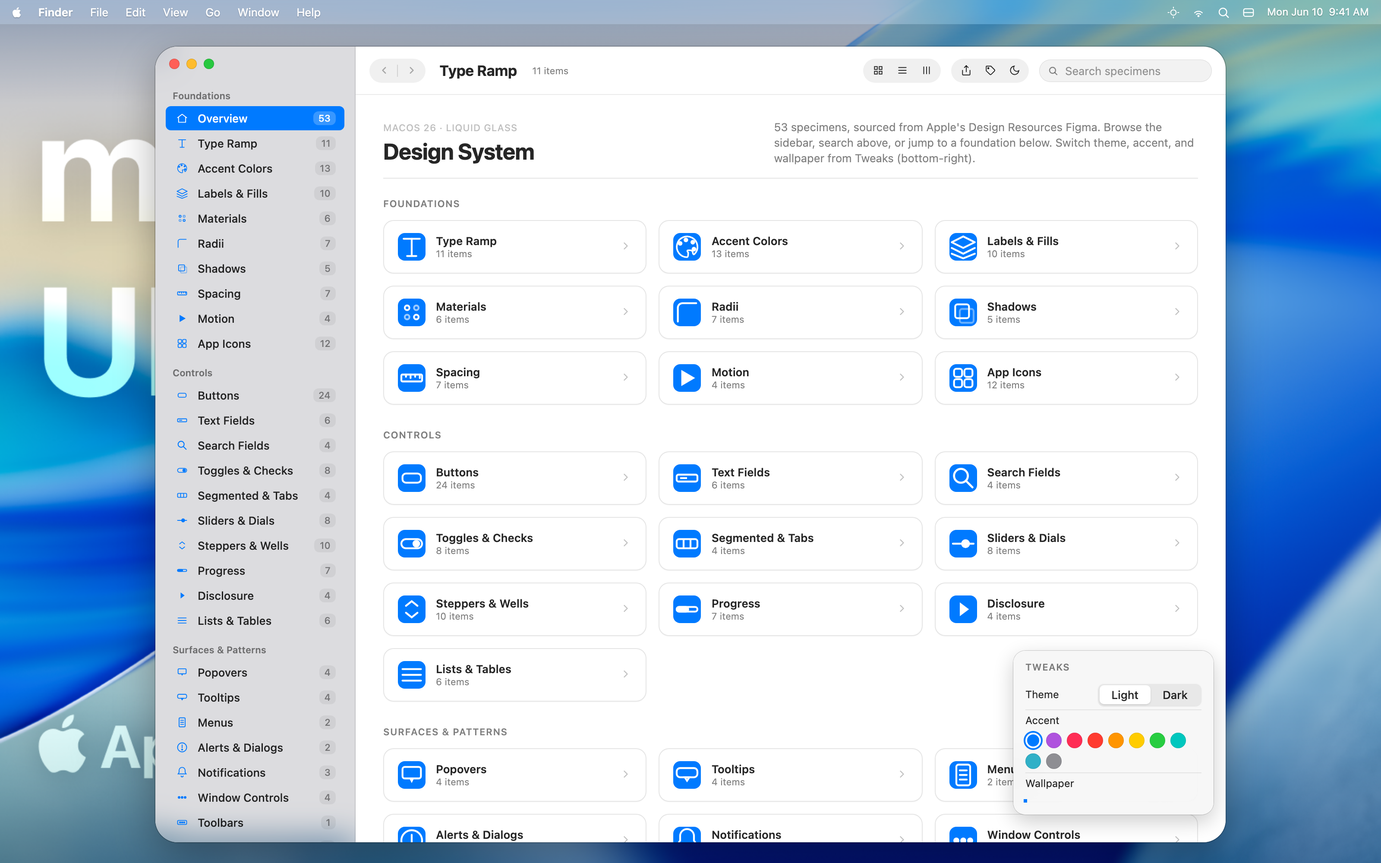
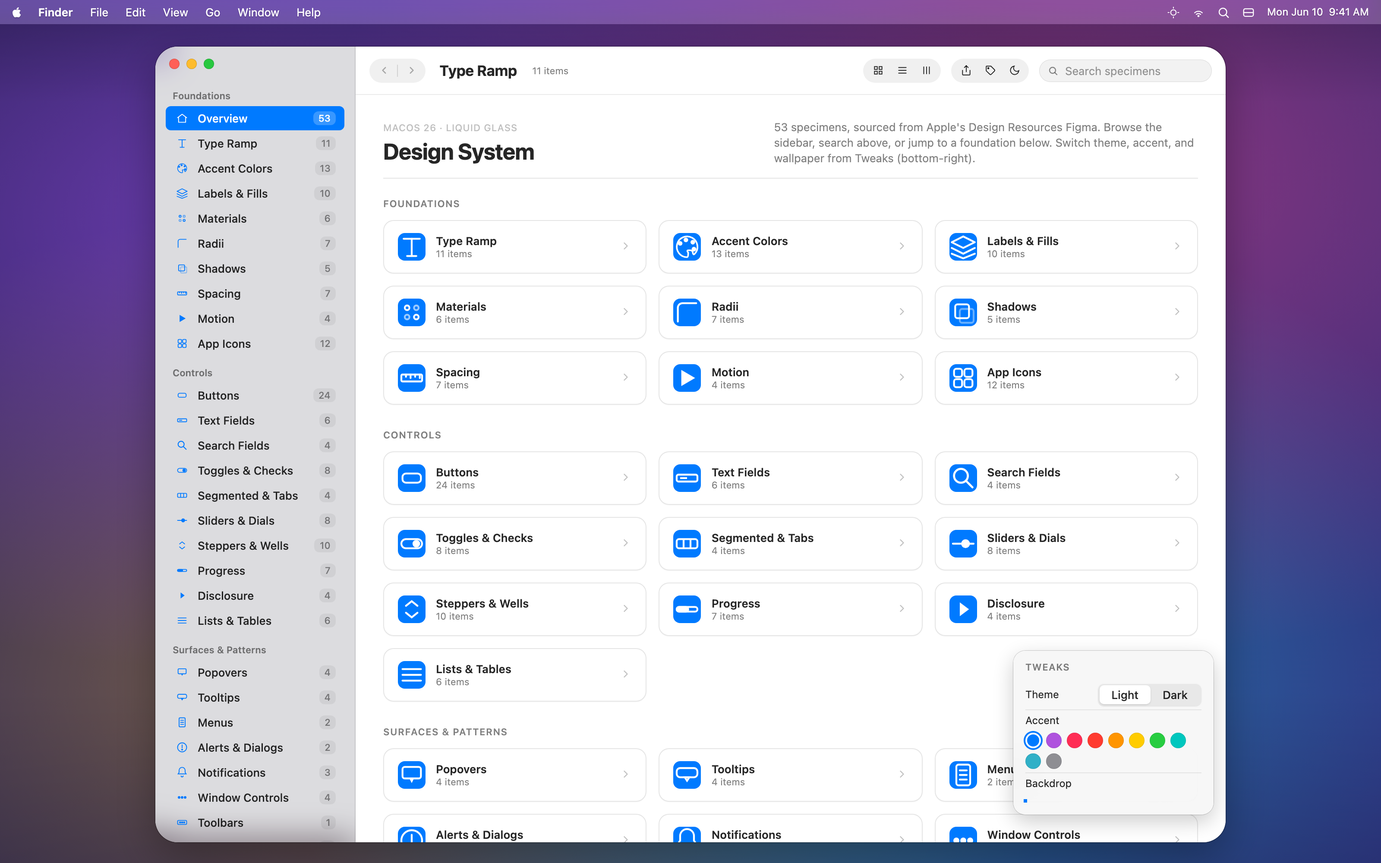
feat: v0.1.2 — limpieza legal, bundle 100% OSS-redistribuible
Eliminados los 9 PNGs propiedad de Apple (4 wallpapers + cover + 4 thumbs)
y todas las refs en specimens, showcase, docs y LICENSE. Reemplazados por
un mesh gradient procedural (--demo-backdrop) CC0 + 4 gradientes
alternativos en preview/wallpapers.html.

- bundle/assets/ eliminado entero (9 PNGs Apple IP)
- colors_and_type.css: nuevo --demo-backdrop (mesh gradient procedural)
- 4 specimens migrados a var(--demo-backdrop): materials, titlebar-window,
  inspector-sidebar, monobar-window
- preview/wallpapers.html: reescrito con 4 gradientes procedurales
- showcase.html: wallpaper picker → gradient picker; JS handler actualizado
- LICENSE: removida atribución a wallpapers Apple (ya no aplica)
- bundle/SKILL.md + bundle/README.md: removidas refs a wallpapers oficiales
- README raíz: agregado link al demo interactivo en GitHub Pages
- bundle/macOS 26 Showcase.html → bundle/showcase.html (URL limpia)
- docs/ screenshots viejos eliminados (mostraban wallpapers Apple);
  showcase-dark.png re-renderizado con el nuevo bundle
- bin/install.mjs: success message actualizado (sin mención a wallpapers Apple)
- package.json: bump 0.1.1 → 0.1.2
- GitHub Pages habilitado: showcase accesible vía
  https://juanlara-aidev.github.io/macos-26-design/bundle/showcase.html

Bundle final: 59 archivos (era 68). 0 dependencias binarias de terceros.

Changed region(s): [[0.0, 0.0, 1.0, 1.0], [0.75, 0.899, 0.7812, 0.93]]

diff --git a/bundle/preview/wallpapers.html b/bundle/preview/wallpapers.html
@@ -1,5 +1,5 @@
 <!doctype html>
-<html lang="en"><head><meta charset="utf-8"><title>Wallpapers</title>
+<html lang="en"><head><meta charset="utf-8"><title>Backdrops</title>
 <link rel="stylesheet" href="../colors_and_type.css">
 <link rel="stylesheet" href="_card.css"></head>
 <body>
@@ -16,6 +16,7 @@
     border-radius: 12px;
     background: rgba(245,245,245,0.55);
     backdrop-filter: var(--glass-blur);
+    -webkit-backdrop-filter: var(--glass-blur);
     box-shadow: var(--shadow-glass);
     display: flex; align-items: center; justify-content: center;
     font: 600 12px/16px var(--font-system); color: rgba(0,0,0,0.78);
@@ -26,48 +27,63 @@
   }
   .wp .name { font: 600 13px/16px var(--font-system); color: rgba(0,0,0,0.88); }
   .wp .meta { font: 400 11px/16px var(--font-mono); color: var(--label-secondary); }
+  .note {
+    background: rgba(251, 191, 36, 0.10);
+    border: 1px solid rgba(251, 191, 36, 0.30);
+    color: rgba(0,0,0,0.78);
+    padding: 12px 16px; border-radius: 10px; max-width: 820px;
+    font: 400 13px/20px var(--font-system); margin: 0 0 18px;
+  }
+  .note strong { color: rgba(0,0,0,0.88); }
 </style>
 
-<h2>System wallpapers · 1920 × 1080</h2>
+<h2>Demo backdrops · procedurales (sin IP)</h2>
 <p style="font:400 13px/18px var(--font-system);color:var(--label-secondary);max-width:760px;margin:-6px 0 14px;">
-  Each composition is balanced warm-to-cool so floating Liquid Glass surfaces always have something to pick up.
-  The glass overlay below each tile previews how a toolbar reads against the wallpaper at 0.55 alpha + 20 px blur.
+  Cuatro mesh gradients procedurales (puro CSS) que sirven como backdrop para previsualizar superficies Liquid Glass.
+  El overlay de cristal abajo de cada tile muestra cómo se lee una toolbar a 0.55 alpha + 20 px blur sobre cada backdrop.
 </p>
+
+<div class="note">
+  <strong>Nota:</strong> los wallpapers oficiales de macOS son propiedad de Apple y no se redistribuyen con este bundle.
+  Estos cuatro backdrops procedurales son CC0 — úsalos para mocks o reemplázalos por tu propio asset en producción.
+  Para wallpapers fotográficos reales, descárgalos de fuentes con licencia compatible (Unsplash, Pexels, NASA) o usa los oficiales de Apple
+  bajo los términos que apliquen a tu proyecto.
+</div>
 
 <div class="grid">
   <div class="wp">
-    <div class="img" style="background-image:url('../assets/wallpaper-aurora.png');">
-      <div class="preview-glass">Aurora · sidebar over wallpaper</div>
+    <div class="img" style="background: radial-gradient(at 30% 30%, rgba(110,231,183,0.7), transparent 55%), radial-gradient(at 75% 70%, rgba(96,165,250,0.65), transparent 55%), linear-gradient(135deg,#0c4a6e,#1e3a8a);">
+      <div class="preview-glass">Aurora · sidebar over backdrop</div>
     </div>
-    <div class="label"><span class="name">Aurora</span><span class="meta">deep navy → coral</span></div>
+    <div class="label"><span class="name">Aurora</span><span class="meta">teal → indigo</span></div>
   </div>
   <div class="wp">
-    <div class="img" style="background-image:url('../assets/wallpaper-sequoia.png');">
-      <div class="preview-glass">Sequoia · warm sunset</div>
+    <div class="img" style="background: radial-gradient(at 25% 25%, rgba(251,113,133,0.7), transparent 55%), radial-gradient(at 80% 75%, rgba(251,191,36,0.7), transparent 55%), linear-gradient(135deg,#7c2d12,#9a3412);">
+      <div class="preview-glass">Dawn · warm sunset</div>
     </div>
-    <div class="label"><span class="name">Sequoia</span><span class="meta">amber → mulberry</span></div>
+    <div class="label"><span class="name">Dawn</span><span class="meta">rose → amber</span></div>
   </div>
   <div class="wp">
-    <div class="img" style="background-image:url('../assets/wallpaper-ventura.png');">
-      <div class="preview-glass">Ventura · cool dawn</div>
+    <div class="img" style="background: radial-gradient(at 20% 50%, rgba(34,211,238,0.7), transparent 55%), radial-gradient(at 80% 50%, rgba(59,130,246,0.65), transparent 55%), linear-gradient(135deg,#082f49,#164e63);">
+      <div class="preview-glass">Ocean · cool dawn</div>
     </div>
-    <div class="label"><span class="name">Ventura</span><span class="meta">indigo → blush</span></div>
+    <div class="label"><span class="name">Ocean</span><span class="meta">cyan → blue</span></div>
   </div>
   <div class="wp">
-    <div class="img" style="background-image:url('../assets/wallpaper-monterey.png');">
-      <div class="preview-glass">Monterey · violet horizon</div>
+    <div class="img" style="background: radial-gradient(at 30% 70%, rgba(34,197,94,0.65), transparent 55%), radial-gradient(at 70% 30%, rgba(132,204,22,0.55), transparent 55%), linear-gradient(135deg,#14532d,#365314);">
+      <div class="preview-glass">Forest · green horizon</div>
     </div>
-    <div class="label"><span class="name">Monterey</span><span class="meta">rose → midnight</span></div>
+    <div class="label"><span class="name">Forest</span><span class="meta">green → lime</span></div>
   </div>
 </div>
 
-<h2 style="margin-top:28px">Usage rules</h2>
+<h2 style="margin-top:28px">Reglas de uso</h2>
 <div style="background:#fff;padding:16px 18px;border-radius:10px;box-shadow:0 0 0 0.5px rgba(0,0,0,0.10), 0 4px 14px rgba(0,0,0,0.06);max-width:820px;">
   <ul style="margin:0;padding-left:18px;font:400 13px/22px var(--font-system);color:rgba(0,0,0,0.78);">
-    <li>Use wallpapers as the desktop / lockscreen background — never as a control fill.</li>
-    <li>Don't tile, crop tightly, or apply additional gradients; the compositions are tuned end-to-end.</li>
-    <li>When pulling colors for chrome, sample from the wallpaper's <em>opposite</em> tonal end so Liquid Glass picks up contrast.</li>
-    <li>For light mode prefer <strong>Sequoia</strong> / <strong>Ventura</strong>; for dark prefer <strong>Aurora</strong> / <strong>Monterey</strong>.</li>
+    <li>El backdrop va en desktop / lockscreen — nunca como fill de un control.</li>
+    <li>No tileees, no recortes apretado, no apliques gradientes encima — las composiciones ya están balanceadas.</li>
+    <li>Cuando saques colores para el chrome, muestrea del extremo tonal <em>opuesto</em> del backdrop para que el Liquid Glass tenga contraste.</li>
+    <li>Para light mode prefiere <strong>Dawn</strong> / <strong>Ocean</strong>; para dark prefiere <strong>Aurora</strong> / <strong>Forest</strong>.</li>
   </ul>
 </div>
 </body></html>

diff --git a/bundle/showcase.html b/bundle/showcase.html
@@ -834,7 +834,7 @@
   @keyframes fadeIn { from { opacity: 0; transform: translateY(4px); } to { opacity: 1; transform: none; } }
 </style>
 </head>
-<body data-theme="light" style="--wallpaper: url('assets/cover-bg.png')">
+<body data-theme="light" style="--wallpaper: var(--demo-backdrop)">
 
 <!-- Stage -->
 <div class="stage"></div>
@@ -2083,13 +2083,13 @@
       </div>
     </div>
     <div class="tw-row" style="flex-direction:column;align-items:flex-start;gap:6px;">
-      <span style="width:100%">Wallpaper</span>
+      <span style="width:100%">Backdrop</span>
       <div class="wp-list" id="tweakWallpaper">
-        <div class="wp-thumb active" data-wp="assets/cover-bg.png" style="background-image: url('assets/cover-bg.png');"></div>
-        <div class="wp-thumb" data-wp="assets/wallpaper-aurora.png" style="background-image: url('assets/wallpaper-aurora.png');"></div>
-        <div class="wp-thumb" data-wp="assets/wallpaper-sequoia.png" style="background-image: url('assets/wallpaper-sequoia.png');"></div>
-        <div class="wp-thumb" data-wp="assets/wallpaper-ventura.png" style="background-image: url('assets/wallpaper-ventura.png');"></div>
-        <div class="wp-thumb" data-wp="assets/wallpaper-monterey.png" style="background-image: url('assets/wallpaper-monterey.png');"></div>
+        <div class="wp-thumb active" data-wp="default" style="background: radial-gradient(at 20% 25%, rgba(168,85,247,0.7), transparent 55%), radial-gradient(at 78% 20%, rgba(236,72,153,0.65), transparent 55%), radial-gradient(at 65% 78%, rgba(34,211,238,0.65), transparent 55%), radial-gradient(at 25% 80%, rgba(251,191,36,0.55), transparent 55%), linear-gradient(135deg,#1e1b4b,#312e81);"></div>
+        <div class="wp-thumb" data-wp="aurora" style="background: radial-gradient(at 30% 30%, rgba(110,231,183,0.7), transparent 55%), radial-gradient(at 75% 70%, rgba(96,165,250,0.65), transparent 55%), linear-gradient(135deg,#0c4a6e,#1e3a8a);"></div>
+        <div class="wp-thumb" data-wp="dawn" style="background: radial-gradient(at 25% 25%, rgba(251,113,133,0.7), transparent 55%), radial-gradient(at 80% 75%, rgba(251,191,36,0.7), transparent 55%), linear-gradient(135deg,#7c2d12,#9a3412);"></div>
+        <div class="wp-thumb" data-wp="ocean" style="background: radial-gradient(at 20% 50%, rgba(34,211,238,0.7), transparent 55%), radial-gradient(at 80% 50%, rgba(59,130,246,0.65), transparent 55%), linear-gradient(135deg,#082f49,#164e63);"></div>
+        <div class="wp-thumb" data-wp="forest" style="background: radial-gradient(at 30% 70%, rgba(34,197,94,0.65), transparent 55%), radial-gradient(at 70% 30%, rgba(132,204,22,0.55), transparent 55%), linear-gradient(135deg,#14532d,#365314);"></div>
       </div>
     </div>
   </aside>
@@ -2275,9 +2275,17 @@
   }
   document.querySelectorAll(".sw-dot").forEach(dot => dot.addEventListener("click", () => setAccent(dot.dataset.color)));
 
-  function setWallpaper(url) {
-    document.body.style.setProperty("--wallpaper", `url('${url}')`);
-    document.querySelectorAll(".wp-thumb").forEach(t => t.classList.toggle("active", t.dataset.wp === url));
+  const wallpaperGradients = {
+    default: "radial-gradient(at 20% 25%, rgba(168,85,247,0.7), transparent 55%), radial-gradient(at 78% 20%, rgba(236,72,153,0.65), transparent 55%), radial-gradient(at 65% 78%, rgba(34,211,238,0.65), transparent 55%), radial-gradient(at 25% 80%, rgba(251,191,36,0.55), transparent 55%), linear-gradient(135deg,#1e1b4b,#312e81)",
+    aurora: "radial-gradient(at 30% 30%, rgba(110,231,183,0.7), transparent 55%), radial-gradient(at 75% 70%, rgba(96,165,250,0.65), transparent 55%), linear-gradient(135deg,#0c4a6e,#1e3a8a)",
+    dawn: "radial-gradient(at 25% 25%, rgba(251,113,133,0.7), transparent 55%), radial-gradient(at 80% 75%, rgba(251,191,36,0.7), transparent 55%), linear-gradient(135deg,#7c2d12,#9a3412)",
+    ocean: "radial-gradient(at 20% 50%, rgba(34,211,238,0.7), transparent 55%), radial-gradient(at 80% 50%, rgba(59,130,246,0.65), transparent 55%), linear-gradient(135deg,#082f49,#164e63)",
+    forest: "radial-gradient(at 30% 70%, rgba(34,197,94,0.65), transparent 55%), radial-gradient(at 70% 30%, rgba(132,204,22,0.55), transparent 55%), linear-gradient(135deg,#14532d,#365314)",
+  };
+  function setWallpaper(name) {
+    const grad = wallpaperGradients[name] || wallpaperGradients.default;
+    document.body.style.setProperty("--wallpaper", grad);
+    document.querySelectorAll(".wp-thumb").forEach(t => t.classList.toggle("active", t.dataset.wp === name));
   }
   document.querySelectorAll(".wp-thumb").forEach(t => t.addEventListener("click", () => setWallpaper(t.dataset.wp)));
 

diff --git a/bundle/colors_and_type.css b/bundle/colors_and_type.css
@@ -104,6 +104,16 @@
   --dur-fast: 120ms;
   --dur: 220ms;
   --dur-slow: 320ms;
+
+  /* Demo backdrop — procedural mesh gradient (no Apple IP).
+     Use this as a stand-in for previewing Liquid Glass surfaces,
+     or replace with your own wallpaper in the consumer app. */
+  --demo-backdrop:
+    radial-gradient(at 20% 25%, rgba(168, 85, 247, 0.55), transparent 50%),
+    radial-gradient(at 78% 20%, rgba(236, 72, 153, 0.50), transparent 50%),
+    radial-gradient(at 65% 78%, rgba(34, 211, 238, 0.50), transparent 50%),
+    radial-gradient(at 25% 80%, rgba(251, 191, 36, 0.40), transparent 50%),
+    linear-gradient(135deg, #1e1b4b 0%, #312e81 100%);
 }
 
 /* ─── Dark mode overrides ─── */

diff --git a/bundle/preview/titlebar-window.html b/bundle/preview/titlebar-window.html
@@ -1,7 +1,7 @@
 <!doctype html>
 <html lang="en"><head><meta charset="utf-8"><title>Titlebar-Only Window</title>
 <link rel="stylesheet" href="../colors_and_type.css"></head>
-<body style="margin:0;padding:50px;background:url('../assets/wallpaper-ventura.png') center/cover fixed,#222;min-height:520px;font-family:var(--font-system);display:flex;gap:32px;flex-wrap:wrap;align-items:flex-start;">
+<body style="margin:0;padding:50px;background:var(--demo-backdrop) center/cover fixed,#222;min-height:520px;font-family:var(--font-system);display:flex;gap:32px;flex-wrap:wrap;align-items:flex-start;">
 <style>
   .window {
     width: 420px; border-radius: 16px; overflow: hidden;

diff --git a/bundle/preview/materials.html b/bundle/preview/materials.html
@@ -5,7 +5,7 @@
 <title>Liquid Glass Materials</title>
 <link rel="stylesheet" href="../colors_and_type.css">
 <style>
-  body { margin: 0; padding: 18px 20px; background: url("../assets/cover-bg.png") center / cover no-repeat; font-family: var(--font-system); min-height: 220px; }
+  body { margin: 0; padding: 18px 20px; background: var(--demo-backdrop); background-size: cover; background-position: center; font-family: var(--font-system); min-height: 220px; }
   .row { display: grid; grid-template-columns: repeat(3, 1fr); gap: 14px; }
   .m {
     height: 110px;

diff --git a/bundle/preview/monobar-window.html b/bundle/preview/monobar-window.html
@@ -1,7 +1,7 @@
 <!doctype html>
 <html lang="en"><head><meta charset="utf-8"><title>Monobar Window</title>
 <link rel="stylesheet" href="../colors_and_type.css"></head>
-<body style="margin:0;padding:40px;background:url('../assets/wallpaper-aurora.png') center/cover fixed,#222;min-height:560px;font-family:var(--font-system);">
+<body style="margin:0;padding:40px;background:var(--demo-backdrop) center/cover fixed,#222;min-height:560px;font-family:var(--font-system);">
 <style>
   .window {
     width: 940px; border-radius: 22px; overflow: hidden;

diff --git a/bundle/preview/inspector-sidebar.html b/bundle/preview/inspector-sidebar.html
@@ -1,7 +1,7 @@
 <!doctype html>
 <html lang="en"><head><meta charset="utf-8"><title>Inspector Sidebar</title>
 <link rel="stylesheet" href="../colors_and_type.css"></head>
-<body style="margin:0;padding:24px;background:url('../assets/wallpaper-sequoia.png') center/cover fixed,#222;min-height:560px;font-family:var(--font-system);">
+<body style="margin:0;padding:24px;background:var(--demo-backdrop) center/cover fixed,#222;min-height:560px;font-family:var(--font-system);">
 <style>
   .window {
     width: 1040px; height: 600px;

diff --git a/bundle/SKILL.md b/bundle/SKILL.md
@@ -61,8 +61,7 @@ Tras instalar, Claude Code descubre la skill por el frontmatter al iniciar la se
 | Tokens canónicos | `colors_and_type.css` | Variables CSS verificadas contra Figma: tipografía, jerarquía de labels por opacidad, system accent colors, materiales Liquid Glass (thin/regular/thick × light/dark), radii, shadows, easing, durations. **Importar este archivo es el primer paso de cualquier integración.** |
 | Doc comprehensivo | `README.md` | 414 líneas. Background, foundations, voz, iconografía, caveats. Lectura recomendada para empaparse del lenguaje visual antes de implementar. TOC al inicio del archivo. |
 | Specimens (53) | `preview/*.html` | Una recipe por foundation/control/superficie. Cada specimen es self-contained y se renderiza directo en el navegador. **Índice categorizado abajo.** |
-| Assets | `assets/` | `cover-bg.png` + 4 wallpapers oficiales (Aurora, Sequoia, Ventura, Monterey). Solo para mocks/preview — no redistribuibles en producción. |
-| Showcase | `macOS 26 Showcase.html` | Vista catálogo con todos los specimens montados en una sola página. Útil para inspección rápida. |
+| Showcase | `showcase.html` | Vista catálogo con todos los specimens montados en una sola página. Útil para inspección rápida. |
 
 ### Specimens categorizados — lectura on-demand
 
@@ -137,13 +136,14 @@ macOS 26 usa **SF Symbols** (~6,900 glyphs, alineados con SF Pro x-height, 9 wei
 
 ---
 
-## Wallpapers y composición
+## Backdrops y composición
 
-`assets/` contiene `cover-bg.png` + 4 wallpapers Apple oficiales (Aurora, Sequoia, Ventura, Monterey). Uso recomendado:
+Este bundle **no incluye los wallpapers oficiales de Apple** (son propiedad de Apple y no se redistribuyen). En su lugar incluye:
 
-- **Mocks/preview**: ponerlos detrás de cualquier ventana mockup para testear Liquid Glass surfaces contra backdrops varied. `preview/wallpapers.html` muestra cada uno con glass overlay.
-- **NO redistribuir en producción** — son assets propiedad de Apple, usables para diseño pero no para shipping en una app distribuida.
-- Para producción, usar wallpaper propio que cumpla: photographic (no flat color), warm-cool balanced (no single-hue), abstract gradient o landscape. La granularidad sutil (subtle film grain) es deseable.
+- **Variable `--demo-backdrop`** en `colors_and_type.css` — un mesh gradient procedural (puro CSS) que sirve como backdrop genérico para previsualizar superficies Liquid Glass. Cero dependencias de imagen, cero issues de licencia.
+- **`preview/wallpapers.html`** muestra 4 mesh gradients alternativos (Aurora, Dawn, Ocean, Forest) con overlay de cristal para ver cómo se leen.
+
+Para producción, el consumidor debe proveer su propio wallpaper que cumpla las reglas de Imagery del `README.md` § Visual foundations: photographic (no flat color), warm-cool balanced (no single-hue), abstract gradient o landscape. Si se necesitan los wallpapers oficiales de macOS, descargarlos directo de Apple y usar bajo los términos que apliquen.
 
 ---
 
@@ -188,7 +188,7 @@ Cuando se invoca con "implementa X componente de macOS 26":
 ## Caveats documentados
 
 - **SF Pro y SF Symbols no se redistribuyen**. El bundle usa fallback chain `-apple-system` para tipo y Lucide CDN para iconografía. Para mocks pixel-perfect en hardware no-Apple, el usuario debe descargar SF Pro desde <https://developer.apple.com/fonts/> y dropear los `.otf`/`.woff2` en una carpeta `fonts/` del target, con `@font-face` matching en `colors_and_type.css`.
-- **Wallpapers de `assets/`**: solo para mocks/preview. Producción requiere asset propio.
+- **Wallpapers Apple no se incluyen**. El bundle usa la variable CSS `--demo-backdrop` (mesh gradient procedural, CC0). Para wallpapers fotográficos reales en producción, el consumidor provee su propio asset.
 - **El Figma pseudocode tenía artefactos de resolución** (algunos accent slots mostraban red repetido). Donde el pseudocode se contradecía, este bundle cross-checkeó contra screenshots Figma renderizados + valores publicados de Apple System Colors y eligió los valores publicados. Caveat documentado en `README.md` sección "Caveats".
 - **macOS 12 vs macOS 26**: este bundle es **macOS 26 específicamente**. macOS 12 (Monterey) tiene radius más cuadrado (10pt window), glass menos pronunciado, paleta similar pero materials con menos blur. No mezclar specimens entre eras.
 

diff --git a/CHANGELOG.md b/CHANGELOG.md
@@ -2,6 +2,31 @@
 
 Formato basado en [Keep a Changelog](https://keepachangelog.com/es-ES/1.1.0/). Versionado [SemVer](https://semver.org/lang/es/).
 
+## [0.1.2] — 2026-05-12
+
+### Removidos (limpieza legal para OSS-friendly)
+
+- **`bundle/assets/` eliminado entero** (9 PNGs propiedad de Apple):
+  - `cover-bg.png`
+  - `wallpaper-aurora.png`, `wallpaper-sequoia.png`, `wallpaper-ventura.png`, `wallpaper-monterey.png`
+  - 4 thumbnails de los wallpapers anteriores
+- Removida la atribución a wallpapers Apple en LICENSE (ya no aplica).
+
+### Cambios
+
+- Nueva variable CSS `--demo-backdrop` en `colors_and_type.css` — mesh gradient procedural (CC0) que reemplaza a los wallpapers como backdrop para previsualizar Liquid Glass.
+- 4 specimens actualizados para usar `var(--demo-backdrop)` en lugar de imágenes: `materials.html`, `titlebar-window.html`, `inspector-sidebar.html`, `monobar-window.html`.
+- `preview/wallpapers.html` reescrito con 4 mesh gradients alternativos (Aurora, Dawn, Ocean, Forest) — todos CC0.
+- `showcase.html`: wallpaper picker convertido a gradient picker (mismos nombres, gradientes procedurales).
+- `bundle/macOS 26 Showcase.html` renombrado a `bundle/showcase.html` (URL limpia para GitHub Pages).
+- README raíz: agregado link al demo interactivo servido vía GitHub Pages.
+- CLI install message: removida mención a "4 wallpapers Apple".
+- LICENSE simplificado: solo refs textuales a SF Pro y SF Symbols (no bundleados).
+
+### Agregados
+
+- **GitHub Pages habilitado**: el showcase ahora es accesible en `https://juanlara-aidev.github.io/macos-26-design/bundle/showcase.html` para demo interactivo.
+
 ## [0.1.1] — 2026-05-12
 
 ### Removidos
@@ -11,21 +36,22 @@ Formato basado en [Keep a Changelog](https://keepachangelog.com/es-ES/1.1.0/). V
 ### Cambios
 
 - README, CHANGELOG, CONTRIBUTING y mensajes del CLI traducidos a español y simplificados.
-- `bundle/SKILL.md`: eliminadas las cross-references a otras skills específicas (no aplican fuera del repo origen).
-- `bundle/evals/evals.json`: terminología neutralizada (`usuario` en vez de términos específicos del repo origen).
+- `bundle/SKILL.md`: eliminadas las cross-references a otras skills específicas.
+- `bundle/evals/evals.json`: terminología neutralizada.
 
 ### Agregados
 
-- Screenshots hero en `docs/` (`hero-window-light.png`, `hero-window-dark.png`, `showcase-light.png`).
+- Screenshots hero en `docs/`.
 - `CONTRIBUTING.md`.
 
 ## [0.1.0] — 2026-05-11
 
 - Release inicial.
-- Bundle de 68 archivos: `SKILL.md`, `README.md` (con TOC), `colors_and_type.css`, 53 specimens HTML, 4 wallpapers Apple + cover, `evals/evals.json` (4 escenarios), `macOS 26 Showcase.html`.
+- Bundle: SKILL.md, README.md (con TOC), colors_and_type.css, 53 specimens HTML, `evals/evals.json` (4 escenarios), `macOS 26 Showcase.html`.
 - CLI `bin/install.mjs` zero-deps en Node 20+. Auto-detect `.claude/.agents/.gemini/`. Flags `--target`, `--global`, `--force`, `--dry-run`.
 - Instalable vía `npx github:juanlara-aidev/macos-26-design`.
 - LICENSE MIT con atribución a Apple (SF Pro, SF Symbols, wallpapers) y Lucide.
 
+[0.1.2]: https://github.com/juanlara-aidev/macos-26-design/compare/v0.1.1...v0.1.2
 [0.1.1]: https://github.com/juanlara-aidev/macos-26-design/compare/v0.1.0...v0.1.1
 [0.1.0]: https://github.com/juanlara-aidev/macos-26-design/releases/tag/v0.1.0

diff --git a/bundle/README.md b/bundle/README.md
@@ -31,8 +31,7 @@ window chrome, and the full set of native controls.
 
 | Path | What it is |
 |---|---|
-| `colors_and_type.css` | All design tokens — fonts, type ramp, colors, materials, radii, shadows, spacing, motion. Import this into anything you build. |
-| `assets/` | Wallpapers and other raw assets copied from the Figma (`cover-bg.png` + 4 system wallpapers: Aurora, Sequoia, Ventura, Monterey). |
+| `colors_and_type.css` | All design tokens — fonts, type ramp, colors, materials, radii, shadows, spacing, motion. Includes the `--demo-backdrop` mesh gradient as a procedural stand-in for wallpapers. Import this into anything you build. |
 | `preview/` | **53 specimen cards** — one per foundation or component family. Populate the Design System tab and double as ready-to-copy recipes. |
 | `SKILL.md` | Agent-Skills frontmatter so this folder is portable into Claude Code. |
 
@@ -403,14 +402,15 @@ font. Workarounds, in order of preference:
 "traffic lights") are recreated as plain CSS circles. See
 `preview/window-controls.html` for the recipe.
 
-**Asset inventory in `assets/`:**
-- `cover-bg.png` — the macOS 26 default wallpaper (1920×1080), pulled
-  straight from the Figma cover frame.
-- `wallpaper-aurora.png`, `wallpaper-sequoia.png`,
-  `wallpaper-ventura.png`, `wallpaper-monterey.png` — four additional
-  1920×1080 system wallpapers. Use behind any window mockup to test
-  Liquid Glass surfaces against varied backdrops. See
-  `preview/wallpapers.html` for previews with glass overlay.
+**Backdrops.** The bundle does **not** ship Apple's macOS wallpapers
+(those are Apple's IP and not redistributable). Instead, it provides
+a procedural mesh-gradient stand-in via the `--demo-backdrop` CSS
+variable in `colors_and_type.css` (CC0). `preview/wallpapers.html`
+shows four alternative procedural backdrops (Aurora, Dawn, Ocean,
+Forest) with a Liquid Glass overlay so you can test how floating
+surfaces read against varied compositions. For production, supply
+your own wallpaper following the imagery rules above
+(photographic, warm-cool balanced, abstract gradient or landscape).
 
 **App icons.** Apple ships every app icon as a **squircle** at the
 shared **22% corner radius**. `preview/app-icons.html` documents

diff --git a/README.md b/README.md
@@ -2,6 +2,8 @@
 
 ![macOS 26 — showcase](docs/showcase-dark.png)
 
+**Ver demo interactivo:** [juanlara-aidev.github.io/macos-26-design/bundle/showcase.html](https://juanlara-aidev.github.io/macos-26-design/bundle/showcase.html)
+
 Skill drop-in del Design System de **macOS 26** (Liquid Glass) para [Claude Code](https://code.claude.com), Cursor, Gemini CLI y cualquier agente compatible con [Agent Skills](https://platform.claude.com/docs/en/agents-and-tools/agent-skills/overview).
 
 ## Instalar
@@ -16,12 +18,12 @@ Más opciones: `npx github:juanlara-aidev/macos-26-design --help`.
 
 ## Qué hay dentro
 
-Tokens (SF Pro · paleta de sistema · Liquid Glass · radii · shadows · motion), **53 specimens HTML**, 4 wallpapers Apple, mapa SF Symbols → Lucide y reglas de voz/copy estilo Apple.
+Tokens (SF Pro · paleta de sistema · Liquid Glass · radii · shadows · motion), **53 specimens HTML**, un mesh gradient procedural como backdrop demo y mapa SF Symbols → Lucide. **Sin assets de Apple** — el bundle es 100% redistribuible.
 
 ## Fuente
 
-Apple Design Resources — archivo Figma `macOS 26 (Community).fig`. Empaquetado vía [Claude Design](https://claude.ai/design).
+Basado en el archivo Figma `macOS 26 (Community).fig` de Apple Design Resources. Empaquetado vía [Claude Design](https://claude.ai/design).
 
 ## Licencia
 
-MIT (ver [LICENSE](LICENSE)). SF Pro / SF Symbols / wallpapers son propiedad de Apple — no redistribuir.
+MIT — código, tokens y specimens (ver [LICENSE](LICENSE)). Las referencias a **SF Pro / SF Symbols** son propiedad de Apple, usadas únicamente por nombre vía fallback chain del sistema (no se bundlean).
